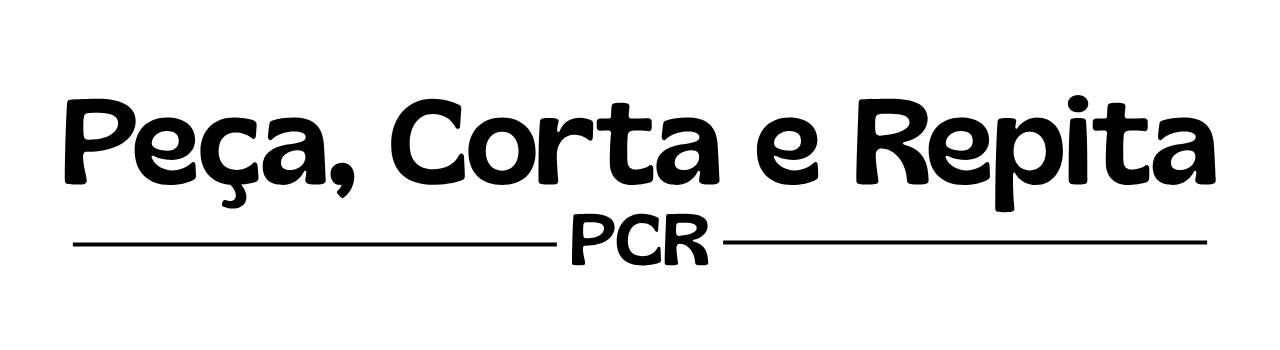
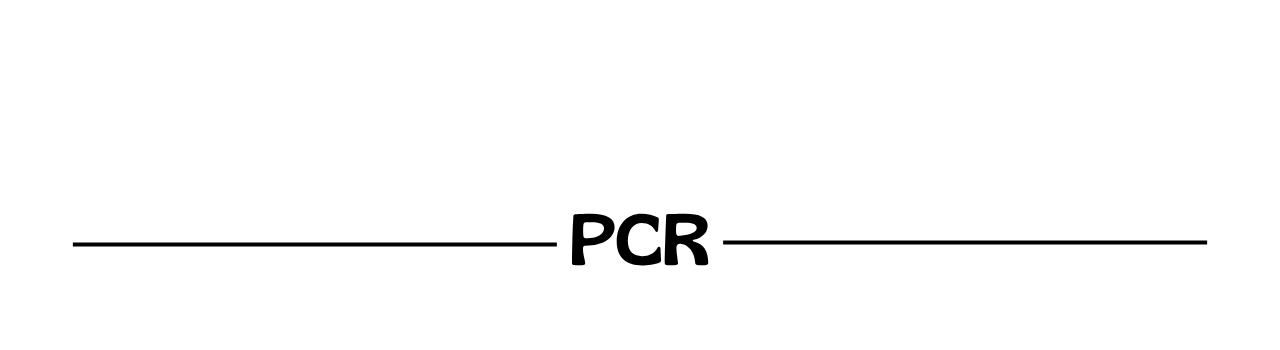
rework da classe Botao e nome do jogo alterado

Changed region(s): [[0.0312, 0.2571, 0.5625, 0.6], [0.5938, 0.2571, 0.9688, 0.6]]

diff --git a/Particoes/classes.py b/Particoes/classes.py
@@ -2,6 +2,7 @@ import pygame, sys, random, os, math
 from pygame.locals import *
 from config import window_width, window_height
 from Particoes.musica import tocar_som, som_hover
+from typing import Callable
 
 
 class dNTP:
@@ -254,45 +255,183 @@ class PolimeraseSelect:
         
 
 class Botao:
-    def __init__(self, tamanho, tamanho_hover, pos, pos_hover, imagem):
-        
-        # Define imagens e rects (normal e hover)
-        img = pygame.image.load(f"Imagens/{imagem}.png")
-        img_hover = pygame.image.load(f"Imagens/{imagem}_hover.png")
+    """Cria um botão com efeito de hover, forma e texto customizáveis."""
 
-        rect = pygame.Rect(pos, tamanho)
-        rect_hover =  pygame.Rect(pos_hover, tamanho_hover)
-        self.rect = rect # Rect inicial
+    def __init__(
+        self,
+        tamanho: tuple[int, int],
+        pos: tuple[int, int],
+        img: str | None = None,
+        cor: tuple[int, int, int] = (255, 255, 255),
+        fator_hover: float = 1.0,
+        cor_hover: tuple[int, int, int] | None = None,
+        cor_clique: tuple[int, int, int] | None = None,
+        raio_borda: int = 0,
+        fn_desenho: Callable[[pygame.Surface, pygame.Rect, tuple], None] | None = None,
+        texto: str | None = None,
+        nome_fonte: str | None = None,
+        tamanho_fonte: int = 16,
+        cor_texto: tuple[int, int, int] = (0, 0, 0),
+        cor_texto_hover: tuple[int, int, int] | None = None,
+        cor_texto_clique: tuple[int, int, int] | None = None,
+        ancora_texto: tuple[float, float] = (0.5, 0.5),
+        borda: float = 0,
+        cor_borda: tuple[int, int, int] | None = None,
+        cor_borda_hover: tuple[int, int, int] | None = None,
+        cor_borda_clique: tuple[int, int, int] | None = None,
+    ):
+        self.cor = cor
+        self.cor_hover = cor_hover or cor
+        self.cor_clique = cor_clique or self.cor_hover
+        self.raio_borda = raio_borda
+        self.raio_borda_hover = round(raio_borda * fator_hover)
+        self.fn_desenho = fn_desenho
 
-        # Armazena parâmetros
-        self.imgs = (img, img_hover)
-        self.rects = (rect, rect_hover)
-        self.tamanhos = (tamanho, tamanho_hover)
-        self.posicoes = (pos, pos_hover)
-        self.hoverou = False
-            
-    def draw(self, surface):
-        mouse_pos = pygame.mouse.get_pos()
+        self.borda = borda
+        self.borda_hover = round(borda * fator_hover)
+        self.cor_borda = cor_borda or cor_texto
+        self.cor_borda_hover = cor_borda_hover or self.cor_borda
+        self.cor_borda_clique = cor_borda_clique or self.cor_borda_hover
 
-        hovering_now = self.rect.collidepoint(mouse_pos)
+        self.texto = texto
+        self.cor_texto = cor_texto
+        self.cor_texto_hover = cor_texto_hover or cor_texto
+        self.cor_texto_clique = cor_texto_clique or self.cor_texto_hover
+        self.ancora_texto = ancora_texto
+        self.estava_hover = False
 
-        if hovering_now and not self.hoverou:
-            tocar_som(som_hover)
+        self.rect = pygame.Rect(pos, tamanho)
+        self.rect_ativo = self.rect
 
-        self.hoverou = hovering_now
+        lh = tamanho[0] * fator_hover
+        ah = tamanho[1] * fator_hover
+        px = pos[0] - (lh - tamanho[0]) / 2
+        py = pos[1] - (ah - tamanho[1]) / 2
+        self.rect_hover = pygame.Rect(px, py, lh, ah)
 
-        # Checa se o mouse está sobre o botão e define os parâmetros utilizados (normal ou hover)
-        if hovering_now: 
-            self.img = self.imgs[1] 
-            self.pos = self.posicoes[1] 
-            self.rect = self.rects[1]  
+        bruto = self._carregar_imagem(img)
+        self._imagem = pygame.transform.scale(bruto, tamanho) if bruto else None
+        self._imagem_hover = pygame.transform.scale(self._carregar_imagem_hover(img), (int(lh), int(ah))) if bruto else None
+
+        if texto is not None:
+            self._fonte = pygame.font.Font(nome_fonte, tamanho_fonte)
+            self._fonte_hover = pygame.font.Font(nome_fonte, int(tamanho_fonte * fator_hover))
         else:
-            self.img = self.imgs[0] 
-            self.pos = self.posicoes[0] 
-            self.rect = self.rects[0]
+            self._fonte = None
+            self._fonte_hover = None
 
-        # Desenha botão
-        surface.blit(self.img, self.pos)
+        self._clicado = False
+
+    # ------------------------------------------------------------------
+
+    @staticmethod
+    def _carregar_imagem(nome: str | None) -> pygame.Surface | None:
+        if nome is None:
+            return None
+        try:
+            return pygame.image.load(f"Imagens/{nome}.png")
+        except Exception:
+            return None
+    
+    @staticmethod 
+    def _carregar_imagem_hover(nome: str | None) -> pygame.Surface | None:
+        if nome is None:
+            return None
+        try:
+            try:
+                return pygame.image.load(f"Imagens/{nome}_hover.png")
+            except Exception:
+                return pygame.image.load(f"Imagens/{nome}.png")
+        except Exception:
+            return None
+
+    @property
+    def com_hover(self) -> bool:
+        return self.rect_ativo.collidepoint(pygame.mouse.get_pos())
+
+    # ------------------------------------------------------------------
+
+    def processar_evento(self, evento: pygame.event.Event) -> bool:
+        """Processa eventos do botão. Retorna True no momento do clique."""
+        if evento.type == pygame.MOUSEBUTTONDOWN and evento.button == 1:
+            if self.rect_ativo.collidepoint(evento.pos):
+                self._clicado = True
+
+        if evento.type == pygame.MOUSEBUTTONUP and evento.button == 1:
+            if self._clicado and self.rect_ativo.collidepoint(evento.pos):
+                self._clicado = False
+                return True
+            self._clicado = False
+
+        return False
+
+    # ------------------------------------------------------------------
+
+    def _desenhar_texto(self, superficie: pygame.Surface, rect: pygame.Rect, hover: bool) -> None:
+        if not self.texto or not self._fonte:
+            return
+
+        if self._clicado:
+            fonte = self._fonte_hover
+            cor = self.cor_texto_clique
+        elif hover:
+            fonte = self._fonte_hover
+            cor = self.cor_texto_hover
+        else:
+            fonte = self._fonte
+            cor = self.cor_texto
+
+        surf_texto = fonte.render(self.texto, True, cor)
+        lt, at = surf_texto.get_size()
+
+        ax, ay = self.ancora_texto
+        x = rect.x + ax * (rect.width - lt)
+        y = rect.y + ay * (rect.height - at)
+
+        superficie.blit(surf_texto, (x, y))
+
+    def desenhar(self, superficie: pygame.Surface) -> None:
+        hover = self.com_hover
+
+        if hover and not self.estava_hover:
+            tocar_som(som_hover)
+        self.estava_hover = hover
+
+        if self._clicado:
+            self.rect_ativo = self.rect_hover
+            cor = self.cor_clique
+            imagem = self._imagem_hover
+            cor_borda = self.cor_borda_clique
+            borda = self.borda_hover
+            raio_borda = self.raio_borda_hover
+        elif hover:
+            self.rect_ativo = self.rect_hover
+            cor = self.cor_hover
+            imagem = self._imagem_hover
+            cor_borda = self.cor_borda_hover
+            borda = self.borda_hover
+            raio_borda = self.raio_borda_hover
+        else:
+            self.rect_ativo = self.rect
+            cor = self.cor
+            imagem = self._imagem
+            cor_borda = self.cor_borda
+            borda = self.borda
+            raio_borda = self.raio_borda
+
+        if imagem:
+            superficie.blit(imagem, self.rect_ativo)
+        elif self.fn_desenho:
+            self.fn_desenho(superficie, self.rect_ativo, cor)
+        else:
+            pygame.draw.rect(superficie, cor, self.rect_ativo, border_radius=raio_borda)
+            if self.borda:
+                pygame.draw.rect(superficie, cor_borda, self.rect_ativo, borda, border_radius=raio_borda)
+
+        self._desenhar_texto(superficie, self.rect_ativo, hover)
+
+    def colide(self, pos: tuple[int, int]) -> bool:
+        return self.rect_ativo.collidepoint(pos)
 
 # Caixas de texto (para o menu)    
 class CaixaTexto:

diff --git a/Particoes/menu.py b/Particoes/menu.py
@@ -17,14 +17,18 @@ def abrir_menu(screen, clock):
 
     # Título
     titulo = pygame.image.load(f"Imagens/titulo.png")
+    fonte = pygame.font.Font("Fontes/gliker-regular.ttf", 95)
+    texto_titulo = fonte.render("Pesque, Conecte e Repita", True, (0, 0, 0))
+    texto_pos = ((window_width-texto_titulo.get_width())/2, 200-texto_titulo.get_height())
 
     ## BOTÕES
     tamanho_botoes = (400, 110)
     tamanho_hover = (477, 143)
 
-    botao_jogar = Botao(tamanho_botoes, tamanho_hover, (440, 356), (400, 341), "botao_jogar")
-    botao_opcoes = Botao(tamanho_botoes, tamanho_hover, (440, 493), (400, 478), "botao_opcoes")
-    botao_leaderboard = Botao(tamanho_botoes, tamanho_hover, (440, 630), (400, 614), "botao_leaderboard") 
+    CINZA = (244, 244, 244)
+    botao_jogar = Botao(tamanho_botoes, (440, 356), cor=CINZA, fator_hover=1.185, texto="Jogar", nome_fonte="Fontes/gliker-regular.ttf", tamanho_fonte=58, borda=6)
+    botao_opcoes = Botao(tamanho_botoes, (440, 493), cor=CINZA, fator_hover=1.185, texto="Opções", nome_fonte="Fontes/gliker-regular.ttf", tamanho_fonte=58, borda=6)
+    botao_leaderboard = Botao(tamanho_botoes, (440, 630), cor=CINZA, fator_hover=1.185, texto="Leaderboard", nome_fonte="Fontes/gliker-regular.ttf", tamanho_fonte=58, borda=6)
 
     # Música
     if not pygame.mixer.music.get_busy():
@@ -54,10 +58,11 @@ def abrir_menu(screen, clock):
         # Desenha grounds, título e botões
         screen.blit(background, (0, 0))
         screen.blit(foreground, (0, 0))
-        botao_jogar.draw(screen)
-        botao_opcoes.draw(screen)
-        botao_leaderboard.draw(screen)
+        botao_jogar.desenhar(screen)
+        botao_opcoes.desenhar(screen)
+        botao_leaderboard.desenhar(screen)
         screen.blit(titulo,(0, 0))
+        screen.blit(texto_titulo, texto_pos)
 
         ## EVENTOS
         for event in pygame.event.get():

diff --git a/Particoes/dificuldades.py b/Particoes/dificuldades.py
@@ -17,10 +17,10 @@ def abrir_dificuldades(screen, clock):
     titulo = pygame.image.load(f"Imagens/titulo_dificuldade.png")
 
     # Botões
-    facil = Botao((360, 371), (400, 412), (65, 235), (45, 215), "botao_facil")
-    medio = Botao((360, 371), (400, 412), (462, 235), (442, 215), "botao_medio")
-    dificil = Botao((360, 371), (400, 412), (856, 235), (836, 215), "botao_dificil")
-    voltar = Botao((210, 75), (250, 89), (50, 680), (30,673), "botao_voltar")
+    facil = Botao((360, 371), (65, 235), "botao_facil", fator_hover=1.111)
+    medio = Botao((360, 371), (462, 235), "botao_medio", fator_hover=1.111)
+    dificil = Botao((360, 371), (856, 235), "botao_dificil", fator_hover=1.111)
+    voltar = Botao((210, 75), (50, 680), cor=(244, 244, 244), fator_hover=1.185, texto="Voltar", nome_fonte="Fontes/gliker-regular.ttf", tamanho_fonte=33, borda=5)
 
     # Música
     if not pygame.mixer.music.get_busy():
@@ -50,10 +50,10 @@ def abrir_dificuldades(screen, clock):
         # Desenha os grounds, botões e título
         screen.blit(background, (0, 0))
         screen.blit(foreground, (0, 0))
-        facil.draw(screen)
-        medio.draw(screen)
-        dificil.draw(screen)
-        voltar.draw(screen)
+        facil.desenhar(screen)
+        medio.desenhar(screen)
+        dificil.desenhar(screen)
+        voltar.desenhar(screen)
         screen.blit(titulo,(140, 50))
 
         ## EVENTOS

diff --git a/Particoes/leaderboard.py b/Particoes/leaderboard.py
@@ -20,7 +20,7 @@ def abrir_classificacao(screen, clock):
     leaderboard = pygame.image.load(f"Imagens/leaderboard.png")
 
     # Botão
-    botao_voltar = Botao((210, 75), (250, 89), (50, 680), (30,673), "botao_voltar")
+    botao_voltar = Botao((210, 75), (50, 680), cor=(244,244,244), fator_hover=1.185, texto="Voltar", nome_fonte="Fontes/gliker-regular.ttf", tamanho_fonte=33, borda=5)
 
     # Tratamento dos dados
     def tratar_dados(lista_dados):
@@ -78,13 +78,13 @@ def abrir_classificacao(screen, clock):
             foreground.blit(bolinhas_bg[i].img, bolinhas_bg[i].pos)
 
         # Desenha grounds, leaderboardo, botão e textos
-        botao_voltar.draw(foreground)
-        desenhar_textos(leaderboard, textos_f, 63, 280)
-        desenhar_textos(leaderboard, textos_m, 476, 280)
-        desenhar_textos(leaderboard, textos_d, 889, 280)
+        botao_voltar.desenhar(foreground)
         screen.blit(background, (0, 0))
         screen.blit(foreground, (0, 0))
-        screen.blit(leaderboard,(0, 0))
+        screen.blit(leaderboard, (0, 0))
+        desenhar_textos(screen, textos_f, 63, 280)
+        desenhar_textos(screen, textos_m, 476, 280)
+        desenhar_textos(screen, textos_d, 889, 280)
 
         ## EVENTOS
         for event in pygame.event.get():

diff --git a/Particoes/loja.py b/Particoes/loja.py
@@ -23,8 +23,8 @@ def abrir_loja(screen, clock):
     dinheiro_insuficiente_text = fonte.render(f"Dinheiro Insuficiente", True, VERMELHO)
 
     # Botões
-    botao_voltar = Botao((210, 75), (250, 89), (50, 680), (30,673), "botao_voltar")
-    botao_seguinte = Botao((210, 75), (250, 89), (1010, 680), (990,673), "botao_seguinte")
+    botao_voltar = Botao((210, 75), (50, 680), cor=(244,244,244), fator_hover=1.185, texto="Voltar", nome_fonte="Fontes/gliker-regular.ttf", tamanho_fonte=33, borda=5)
+    botao_seguinte = Botao((210, 75), (1010, 680), cor=(244,244,244), fator_hover=1.185, texto="Seguinte", nome_fonte="Fontes/gliker-regular.ttf", tamanho_fonte=33, borda=5)
     setas = {
         "esq_poli": pygame.Rect(300, 267.5, 50, 50),
         "dir_poli": pygame.Rect(930, 267.5, 50, 50),
@@ -95,8 +95,8 @@ def abrir_loja(screen, clock):
         screen.blit(moeda, (1210, 20))  
         screen.blit(moeda_text, (1200-moeda_text.get_width(), 25))
 
-        botao_voltar.draw(screen)
-        botao_seguinte.draw(screen)
+        botao_voltar.desenhar(screen)
+        botao_seguinte.desenhar(screen)
 
         # Mensagem de erro
         if erro:

diff --git a/Particoes/opcoes.py b/Particoes/opcoes.py
@@ -24,7 +24,7 @@ def abrir_opcoes(screen, clock):
     menu_opcoes = pygame.image.load(f"Imagens/menu_opcoes.png")
 
     # Botão de voltar
-    botao_voltar = Botao((210, 75), (287, 103), (50, 680), (30, 672), "botao_voltar")
+    botao_voltar = Botao((210, 75), (50, 680), cor=(244,244,244), fator_hover=1.185, texto="Voltar", nome_fonte="Fontes/gliker-regular.ttf", tamanho_fonte=33, borda=5)
 
     ## SLIDER MÚSICA
     musica_pausou = False
@@ -183,7 +183,7 @@ def abrir_opcoes(screen, clock):
 
         # Sliders de som & música 
         draw_slider()
-        botao_voltar.draw(foreground)
+        botao_voltar.desenhar(foreground)
 
         # Desenha grounds
         screen.blit(background, (0, 0))

diff --git a/Particoes/musica.py b/Particoes/musica.py
@@ -12,8 +12,8 @@ def tocar_musica(musica):
 
 som_hover = mixer.Sound("musicas/som.mp3") # Carrega o efeito sonoro
 
-def tocar_som(somzeira):
+def tocar_som(som):
     if config.som_on:
-        somzeira.set_volume((config.volume_s)/100) # Configura o efeito sonoro
+        som.set_volume((config.volume_s)/100) # Configura o efeito sonoro
 
-        somzeira.play() # Toca a música # Configura o efeito sonoro
+        som.play() # Toca a música # Configura o efeito sonoro
